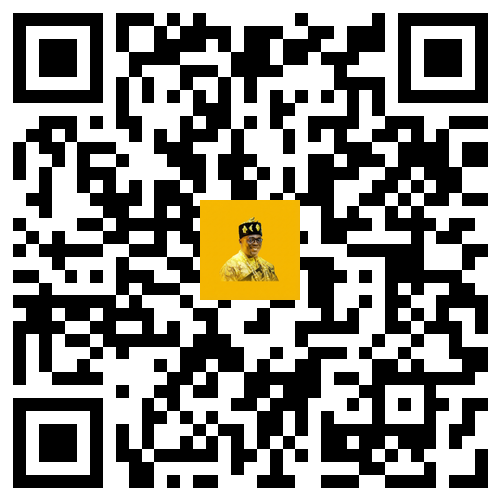
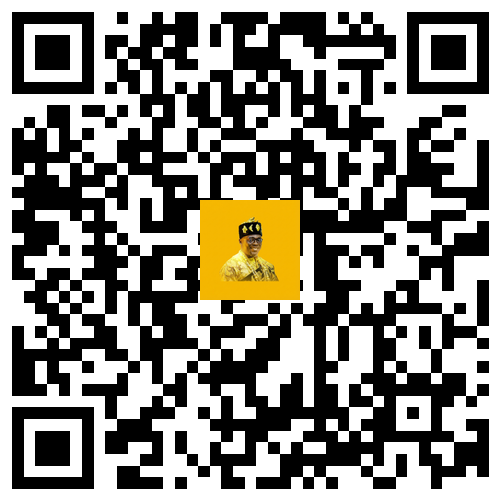
fix: Regenerate QR code with correct Vercel URL

diff --git a/admin/scripts/generate-qr.js b/admin/scripts/generate-qr.js
@@ -4,7 +4,7 @@ const fs = require('fs');
 const path = require('path');
 
 async function generate() {
-    const url = 'https://bonimusic-admin.vercel.app/download';
+    const url = 'https://bonimusic-administration.vercel.app/download';
     const outputPath = path.join(__dirname, '../public/qrcode.png');
     const logoPath = path.join(__dirname, '../public/icon.png');
 
